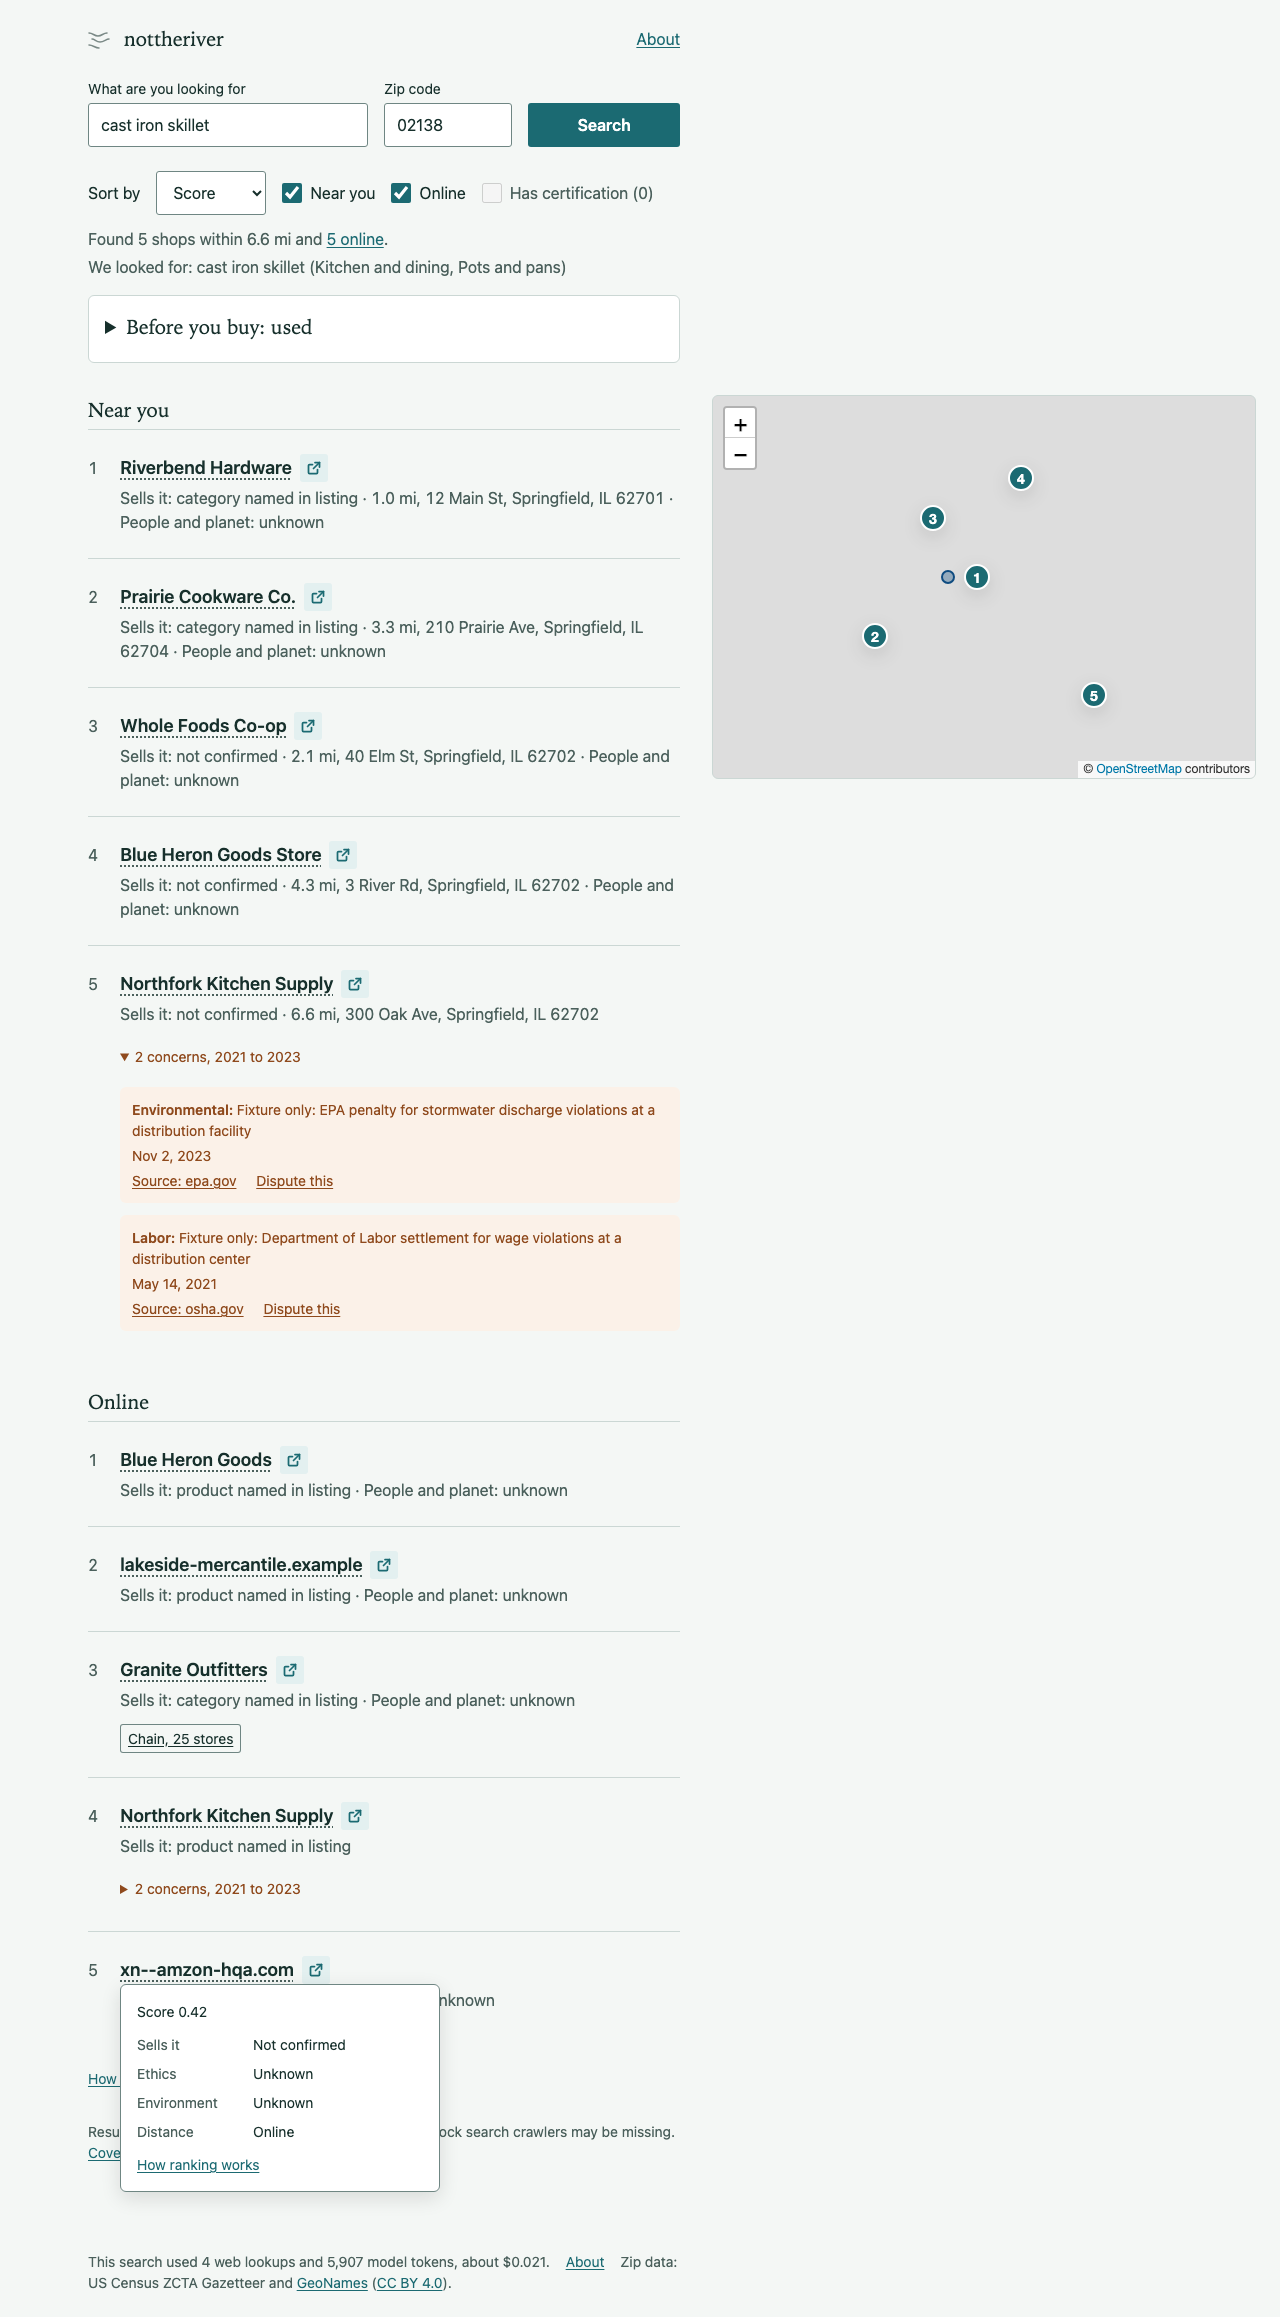
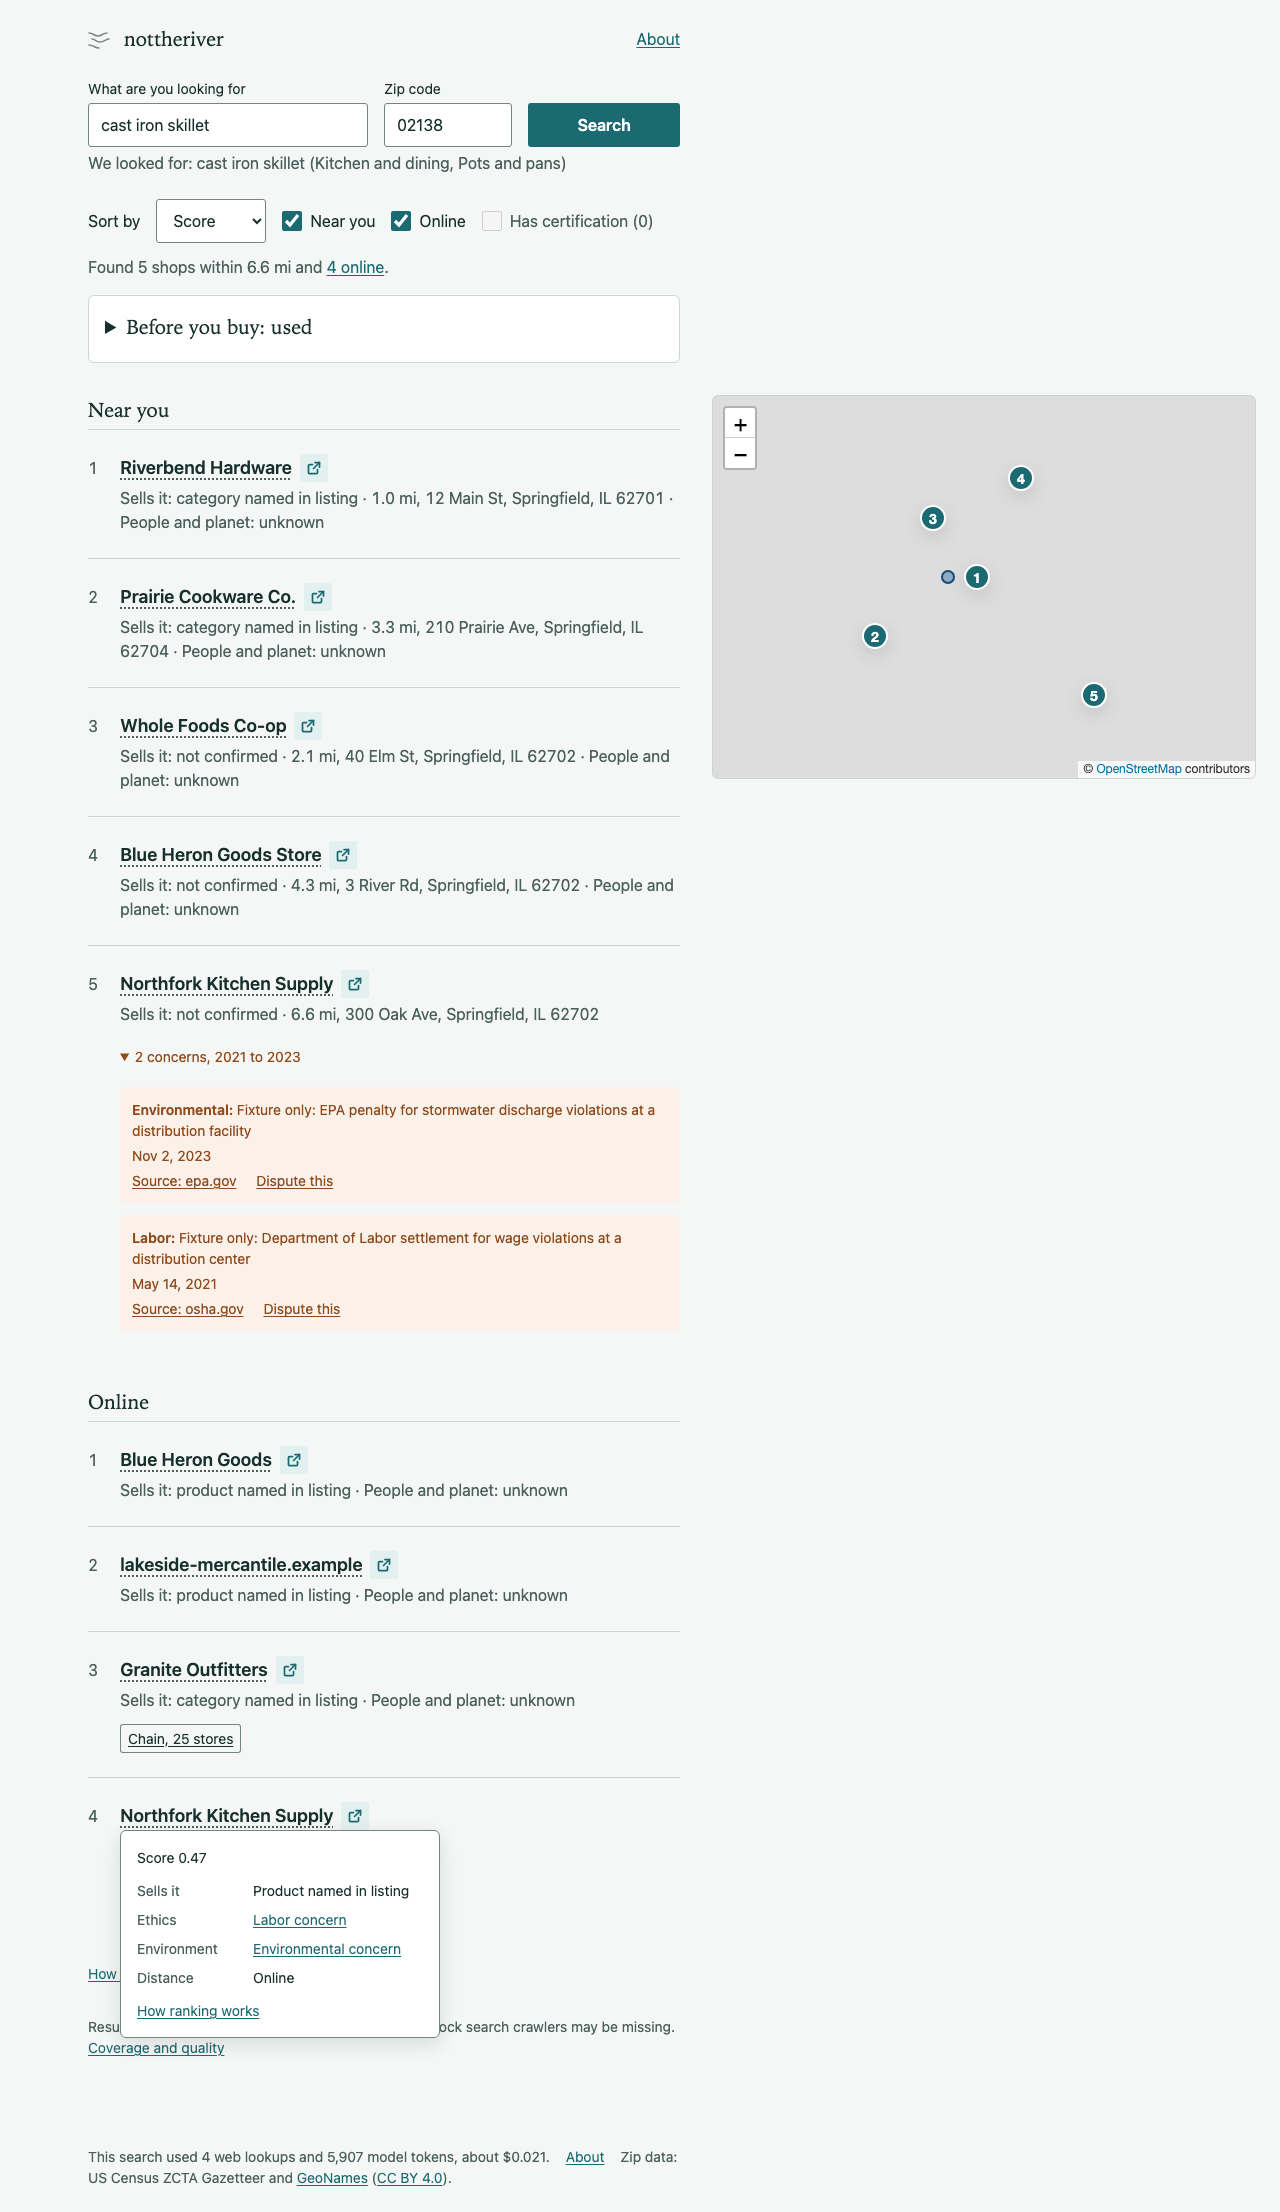
feat(results): show the "We looked for" line on a search with no results
The line moves out of the results block to sit under the status line, so
it also shows when the search found nothing.

diff --git a/src/main.test.ts b/src/main.test.ts
@@ -244,9 +244,11 @@ describe('search page', () => {
     await search();
     const found = $('[data-found]');
     expect(found.previousElementSibling).toBe($('.controls'));
-    // How the search was read, then "Before you buy", sit between the count and the shops.
-    expect(found.nextElementSibling).toBe($('[data-looked-for]'));
-    expect($('[data-looked-for]').nextElementSibling).toBe($('[data-before-you-buy]'));
+    // "Before you buy" sits between the count and the shops.
+    expect(found.nextElementSibling).toBe($('[data-before-you-buy]'));
+    // How the search was read sits outside the results block, so an empty search can show it too.
+    expect($('[data-status]').nextElementSibling).toBe($('[data-looked-for]'));
+    expect($('[data-looked-for]').nextElementSibling).toBe($('#results'));
     expect($('[data-before-you-buy]').nextElementSibling).toBe($('#result-sections'));
     expect(found.getAttribute('role')).toBe('status');
   });
@@ -277,6 +279,17 @@ describe('search page', () => {
     await vi.waitFor(() => expect($('[data-found]').textContent).toMatch(/^Found/));
     expect(line.hidden).toBe(true);
     expect(line.textContent).toBe('');
+  });
+
+  it('says how the search was read when the search found nothing', async () => {
+    const pick = { general: 'tools_hardware', specific: null, general_name: 'Tools and hardware' };
+    const query = { ...fixture.query, product: 'DeWalt DCD771', canonical_name: 'cordless drill', pick };
+    searchReplies(() => new Response(JSON.stringify({ ...fixture, query, local: [], local_farther: [], online: [] }), { status: 200 }));
+    submit('DeWalt DCD771', '10001');
+    const line = $('[data-looked-for]');
+    await vi.waitFor(() => expect(line.hidden).toBe(false));
+    expect(line.textContent).toBe('We looked for: cordless drill (Tools and hardware)');
+    expect($('#results').hidden).toBe(true);
   });
 
   it('clears the line under the search box once the results are in', async () => {

diff --git a/src/main.ts b/src/main.ts
@@ -162,6 +162,8 @@ async function run(): Promise<void> {
     }
 
     renderFooter(cost, outcome.data.usage);
+    // Before the empty check: a wrong reading of the product is the likely cause of an empty search.
+    renderLookedFor(lookedFor, outcome.data.query);
     if (outcome.data.local.length === 0 && !outcome.data.local_farther?.length && outcome.data.online.length === 0) {
       return renderStatus(status, { kind: 'no_results', product: text });
     }
@@ -170,7 +172,6 @@ async function run(): Promise<void> {
     center = { lat: round2(place.lat), lon: round2(place.lon) };
     results.hidden = false;
     show(current, true);
-    renderLookedFor(lookedFor, current.query);
     // Once per search, so a sort or filter change leaves it as the visitor left it.
     renderIdeas(ideas, ideasFor(current.query));
     renderStatus(status, { kind: 'idle' });

diff --git a/index.html b/index.html
@@ -40,6 +40,7 @@
 </form>
 
 <p id="status" class="status" role="status" aria-live="polite" data-status></p>
+<p id="looked-for" class="looked-for" data-looked-for hidden></p>
 
 <div id="results" class="results-wrap" hidden>
 <div class="controls">
@@ -54,7 +55,6 @@
 <label><input type="checkbox" id="certified-only"> <span>Has certification <span data-certified-count></span></span></label>
 </div>
 <p id="found" class="found" role="status" aria-live="polite" data-found></p>
-<p id="looked-for" class="looked-for" data-looked-for hidden></p>
 <div id="before-you-buy" data-before-you-buy hidden></div>
 <div id="result-sections"></div>
 <p class="coverage-note">Results come from Brave Search's index; shops that block search crawlers may be missing. <a href="about.html#coverage">Coverage and quality</a></p>
